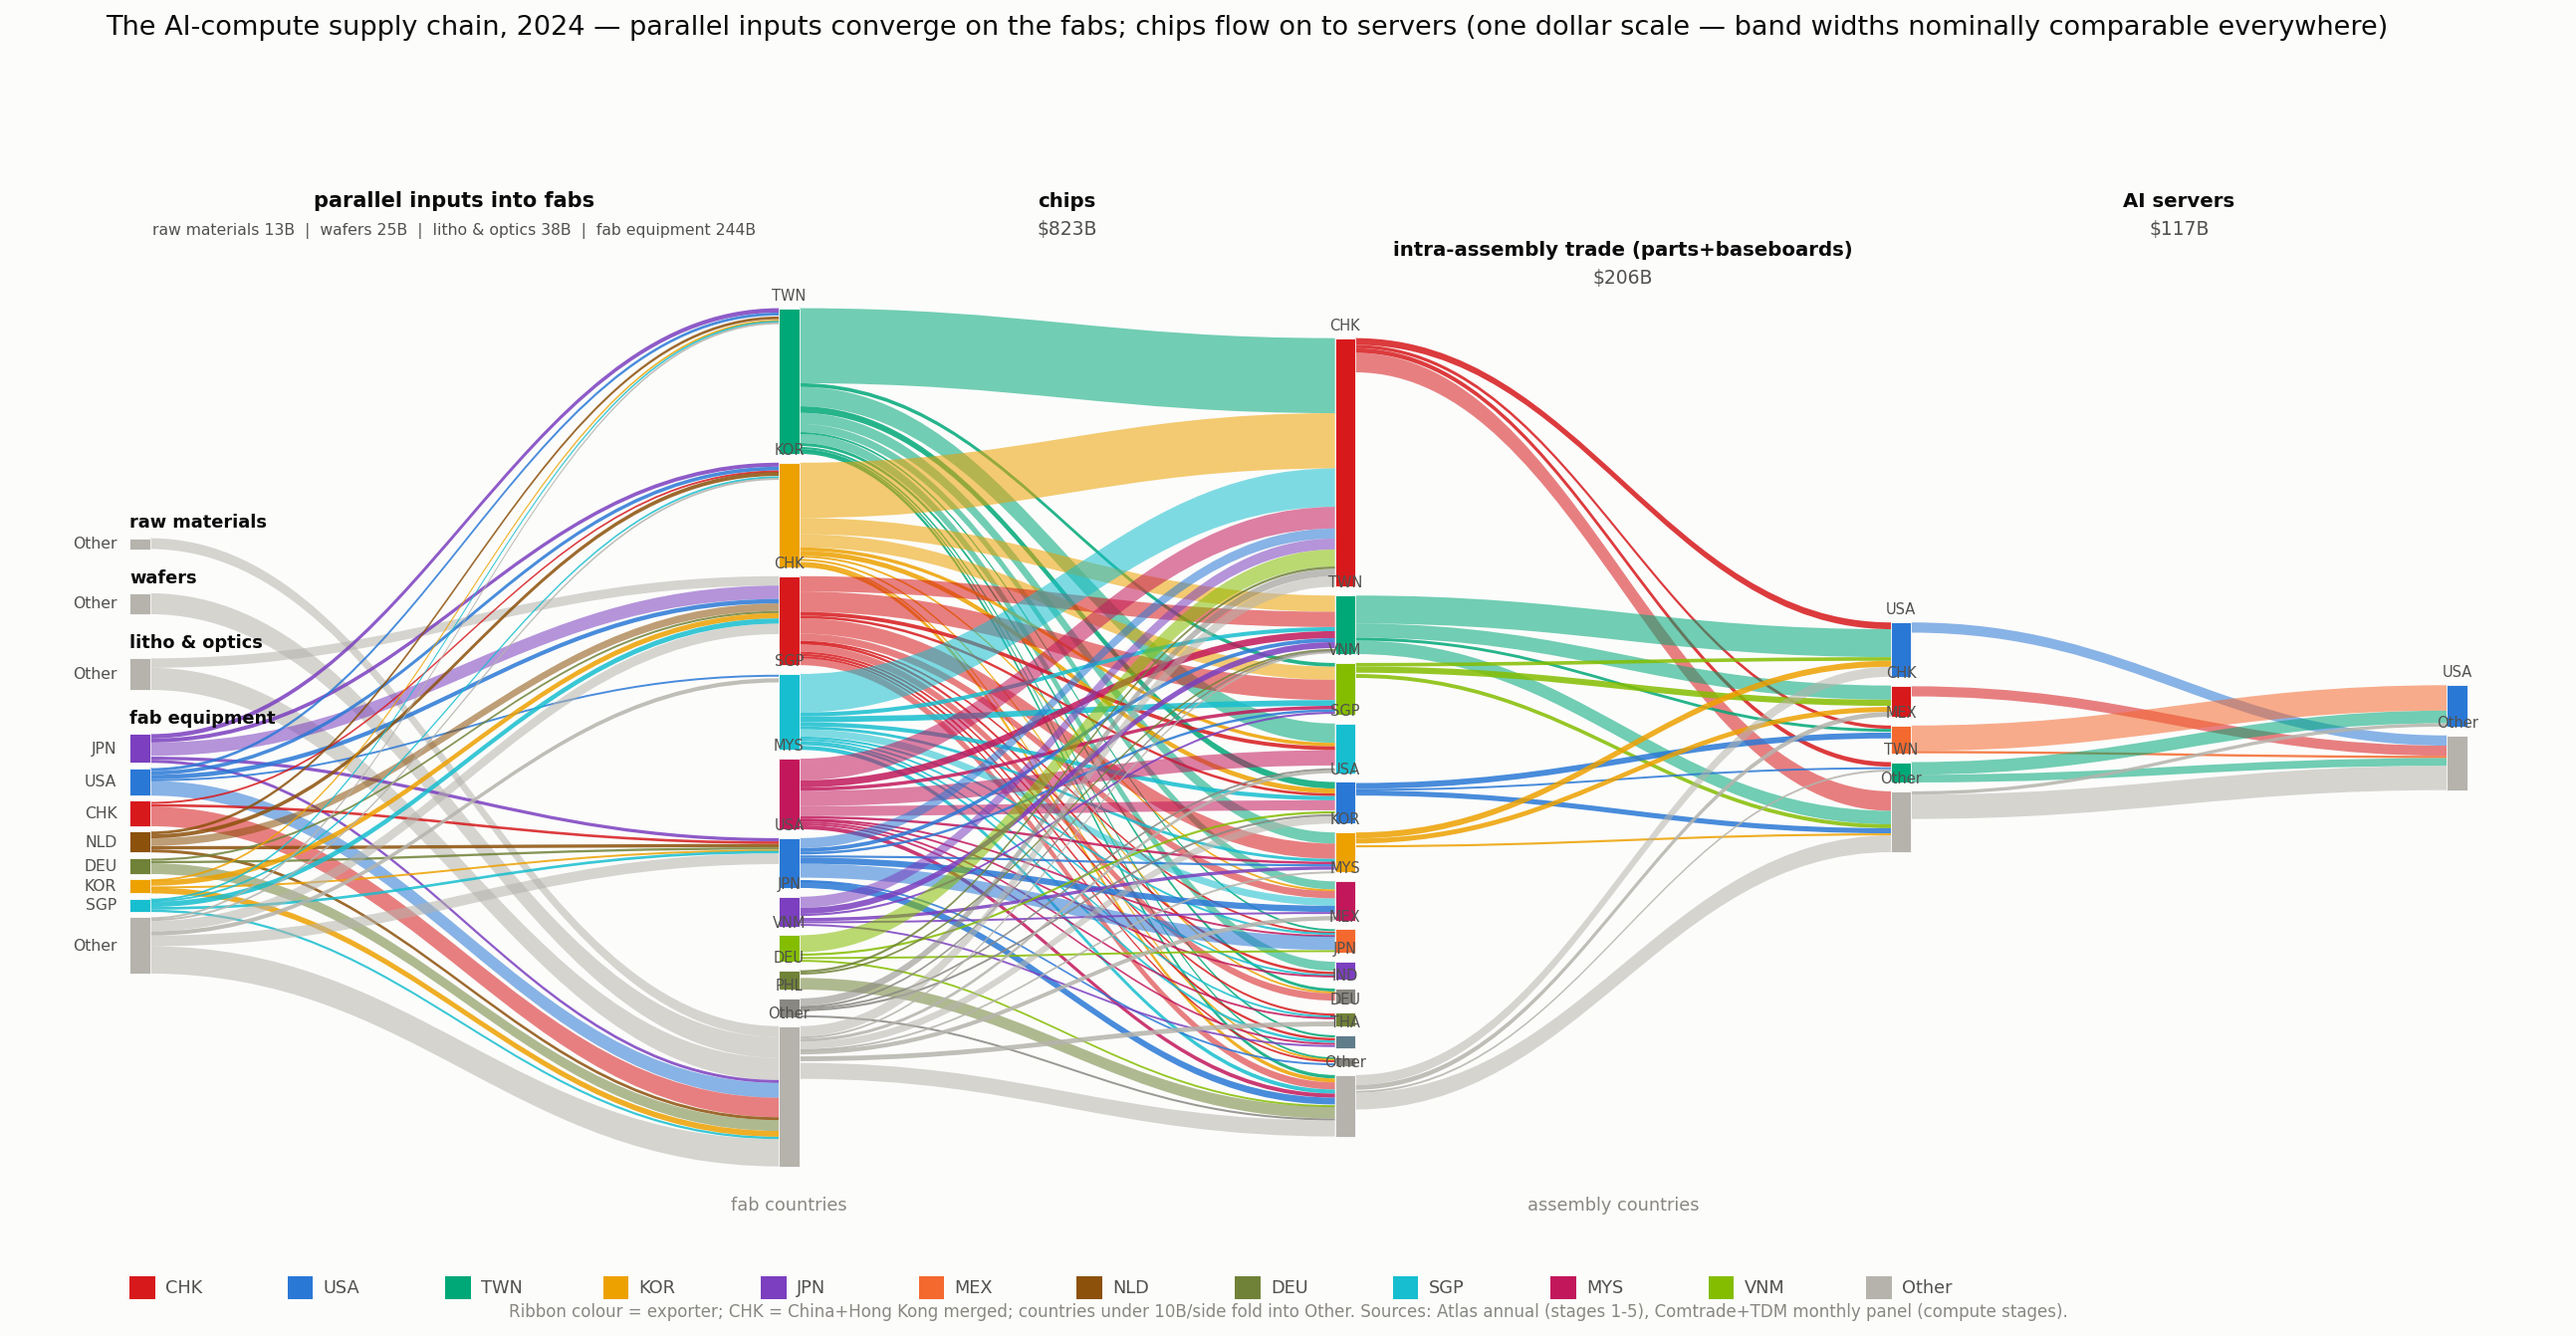
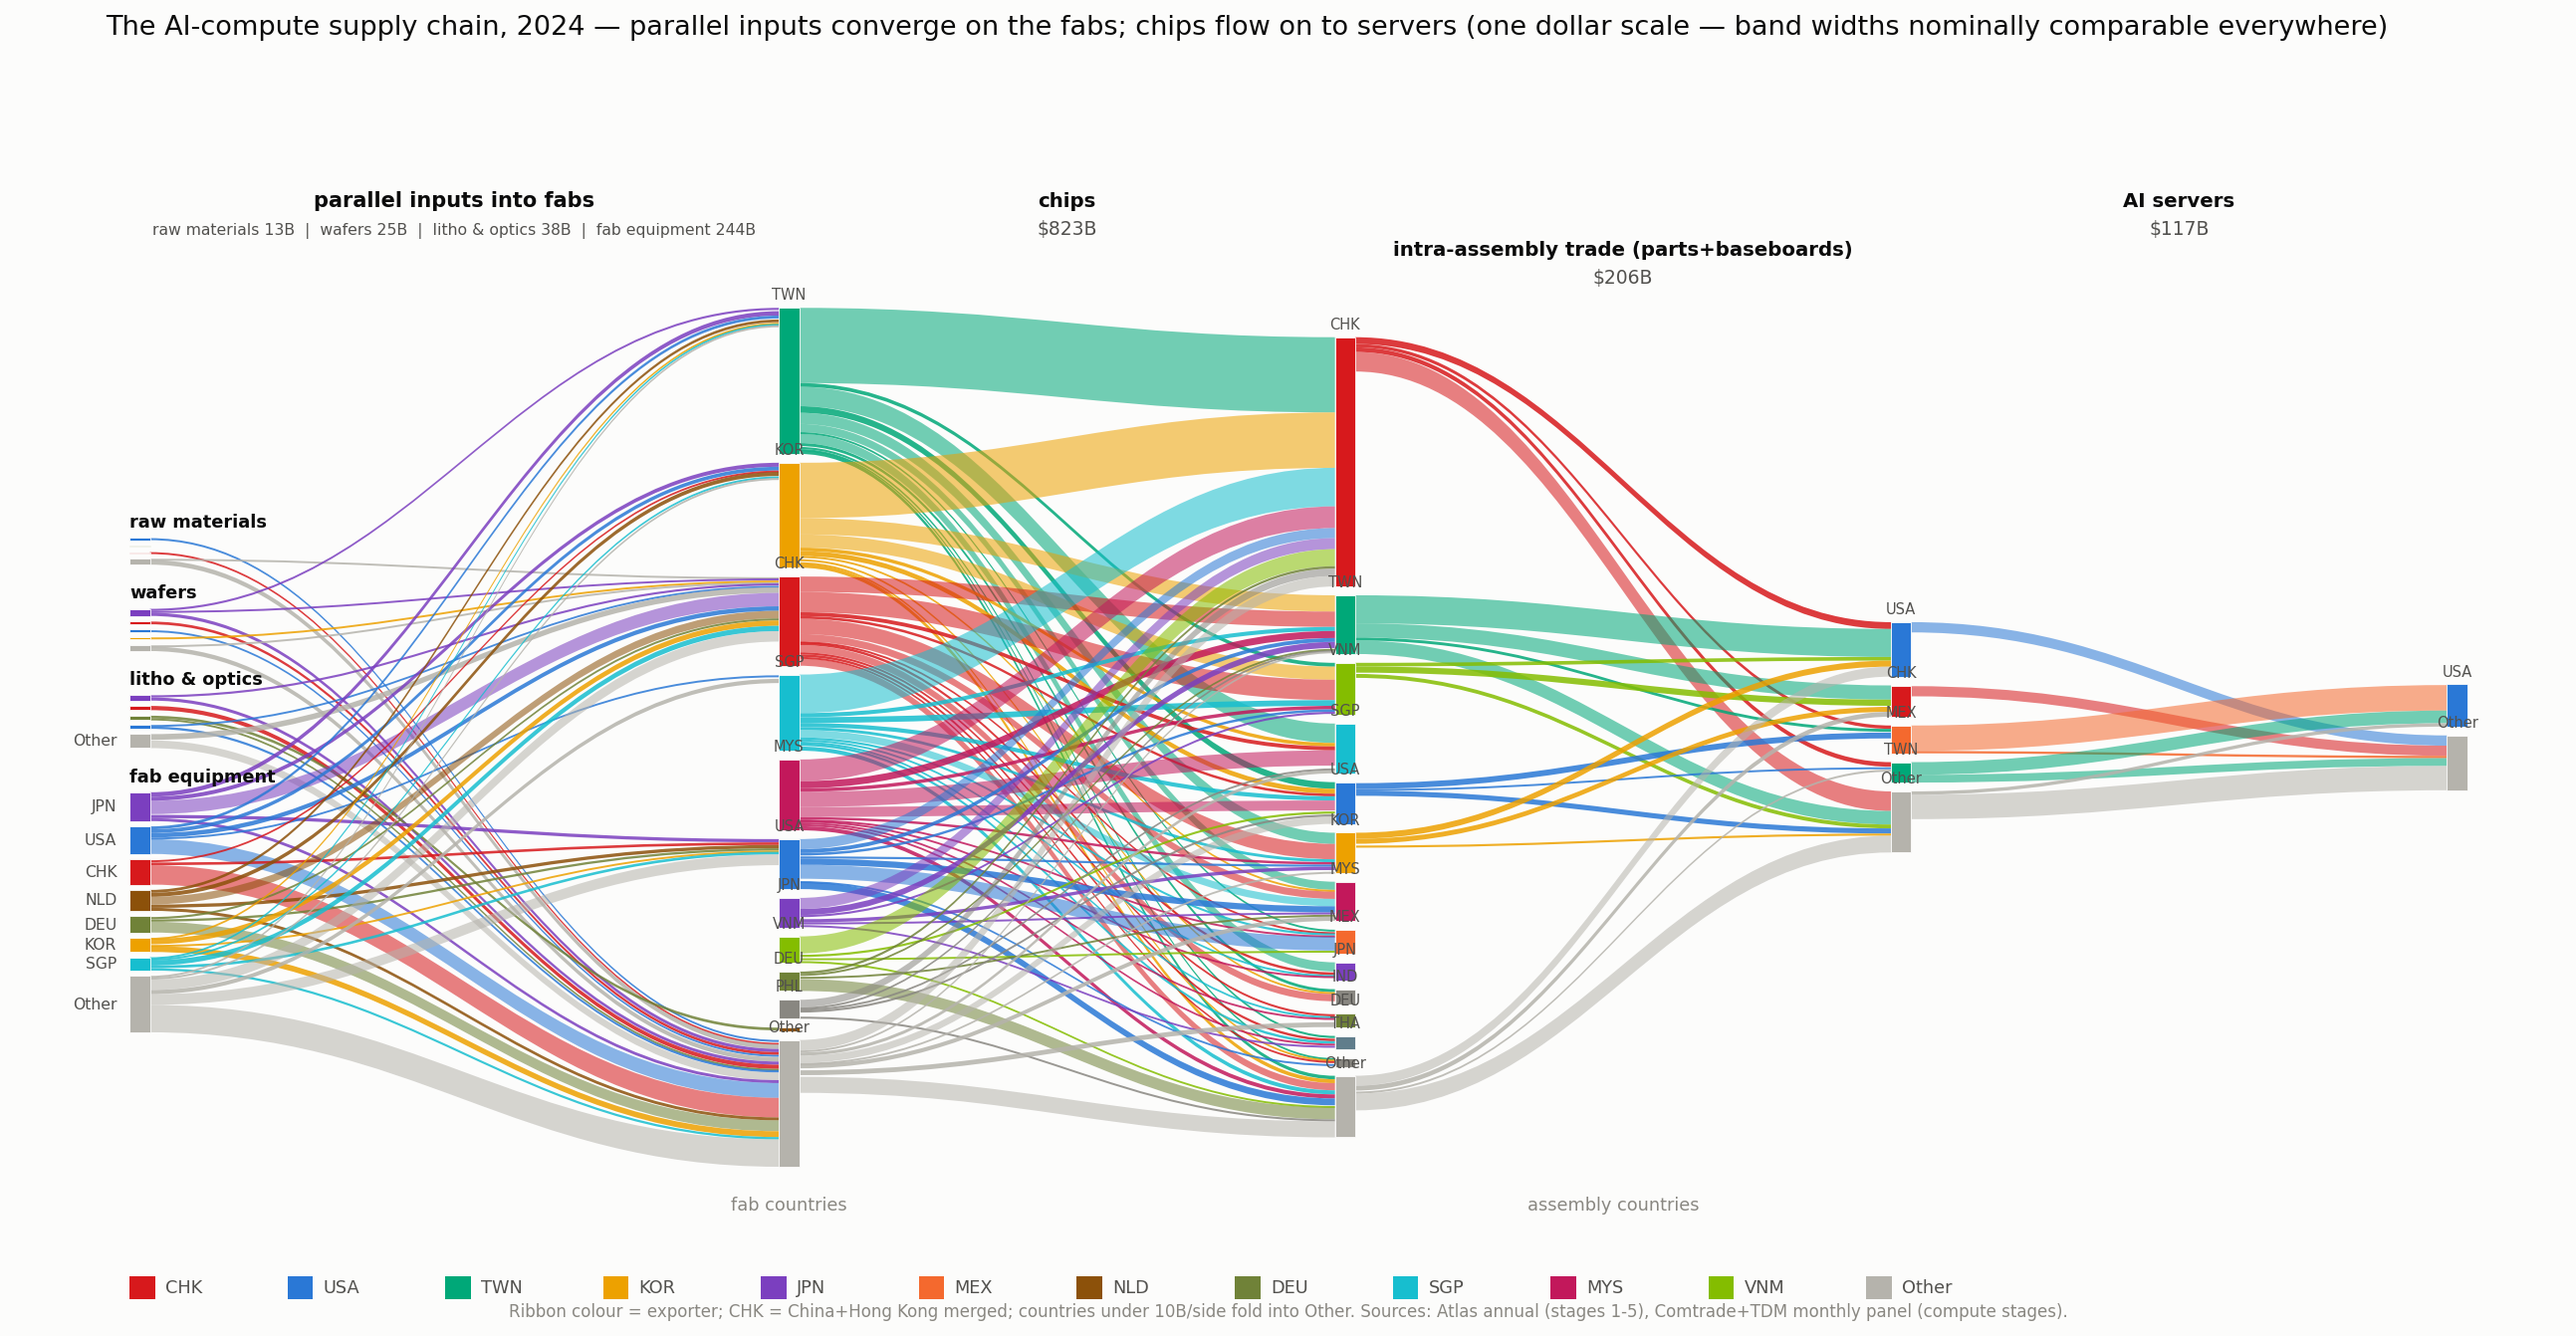
Overview fold: relative keep-rule (>=10% of stage) alongside absolute bar
Fixes the 'Taiwan makes chips from nothing' artifact: a uniform dollar
threshold hid countries that are relatively large in small stages (TWN =
11% of equipment imports but under the 30B coarse bar). Input-gap ribbons
also get a gentler draw threshold than downstream gaps.

diff --git a/scripts/export_supply_chain_sankey.py b/scripts/export_supply_chain_sankey.py
@@ -414,8 +414,12 @@ def draw_chain_overview(input_stages, seq_stages, MODE="dollar", fold_min=10.0, 
         for (o, t), v in flows.items():
             ex[o] = ex.get(o, 0.0) + v
             im[t] = im.get(t, 0.0) + v
-        ko = set(ex[ex >= FOLD_MIN].index)
-        kt = set(im[im >= FOLD_MIN].index)
+        # keep a country if it clears the absolute bar OR ~10% of its stage total,
+        # so relatively-large players in small stages (TWN in wafers/equipment)
+        # stay visible instead of folding into Other
+        rel = 0.10 * sum(flows.values())
+        ko = set(ex[(ex >= FOLD_MIN) | (ex >= rel)].index)
+        kt = set(im[(im >= FOLD_MIN) | (im >= rel)].index)
         f = {}
         for (o, t), v in flows.items():
             key = (o if o in ko else "Other", t if t in kt else "Other")
@@ -534,7 +538,7 @@ def draw_chain_overview(input_stages, seq_stages, MODE="dollar", fold_min=10.0, 
                 if v <= 0:
                     continue
                 h = v * sc
-                if v < draw_min:
+                if v < draw_min * 0.4:
                     out_off[o] += h
                     fab_in_off[t] += h
                     continue
